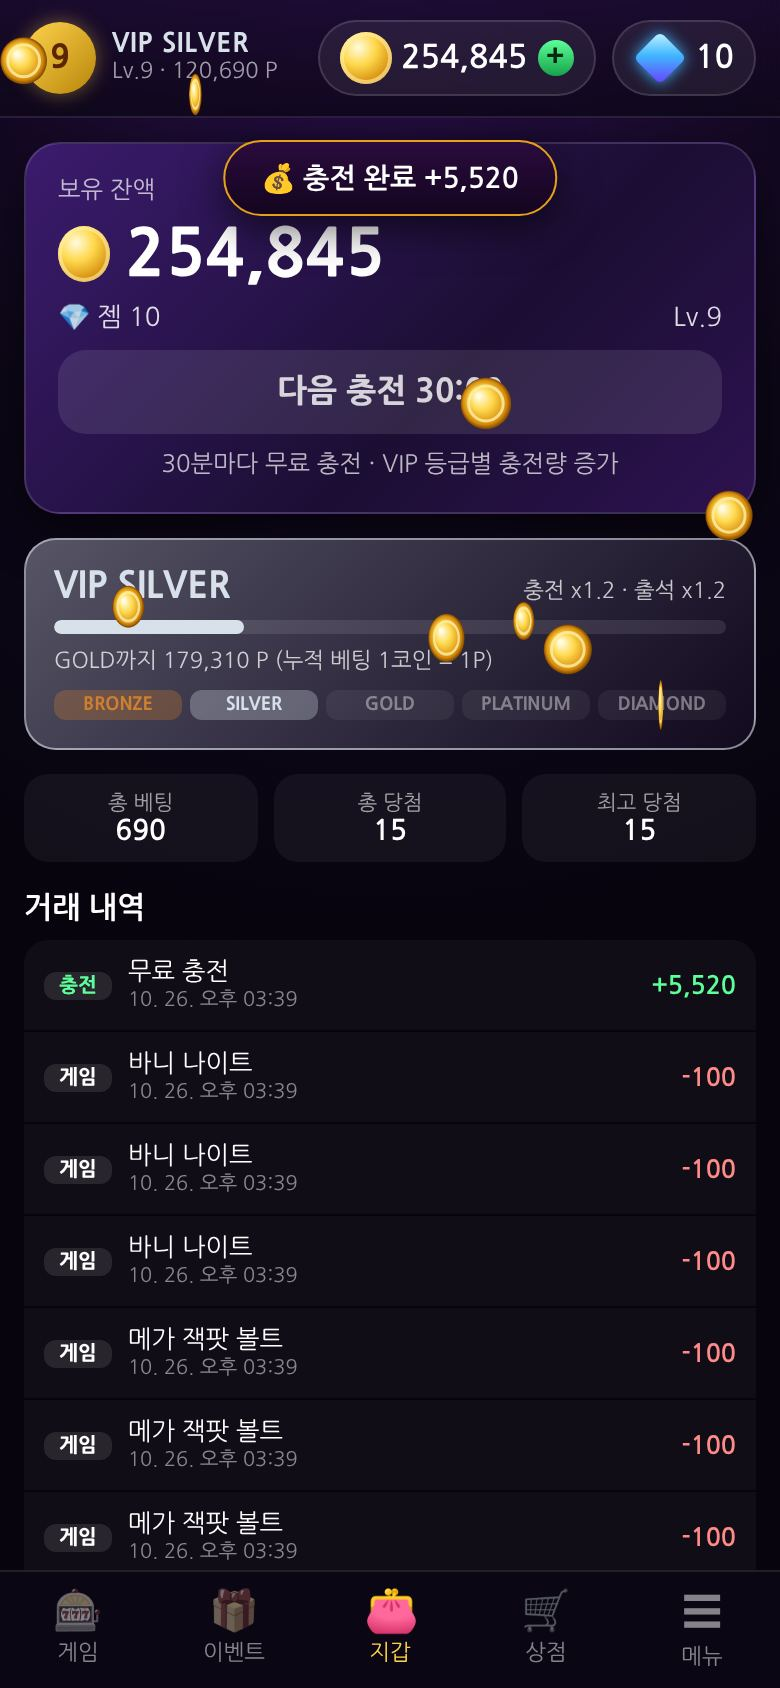
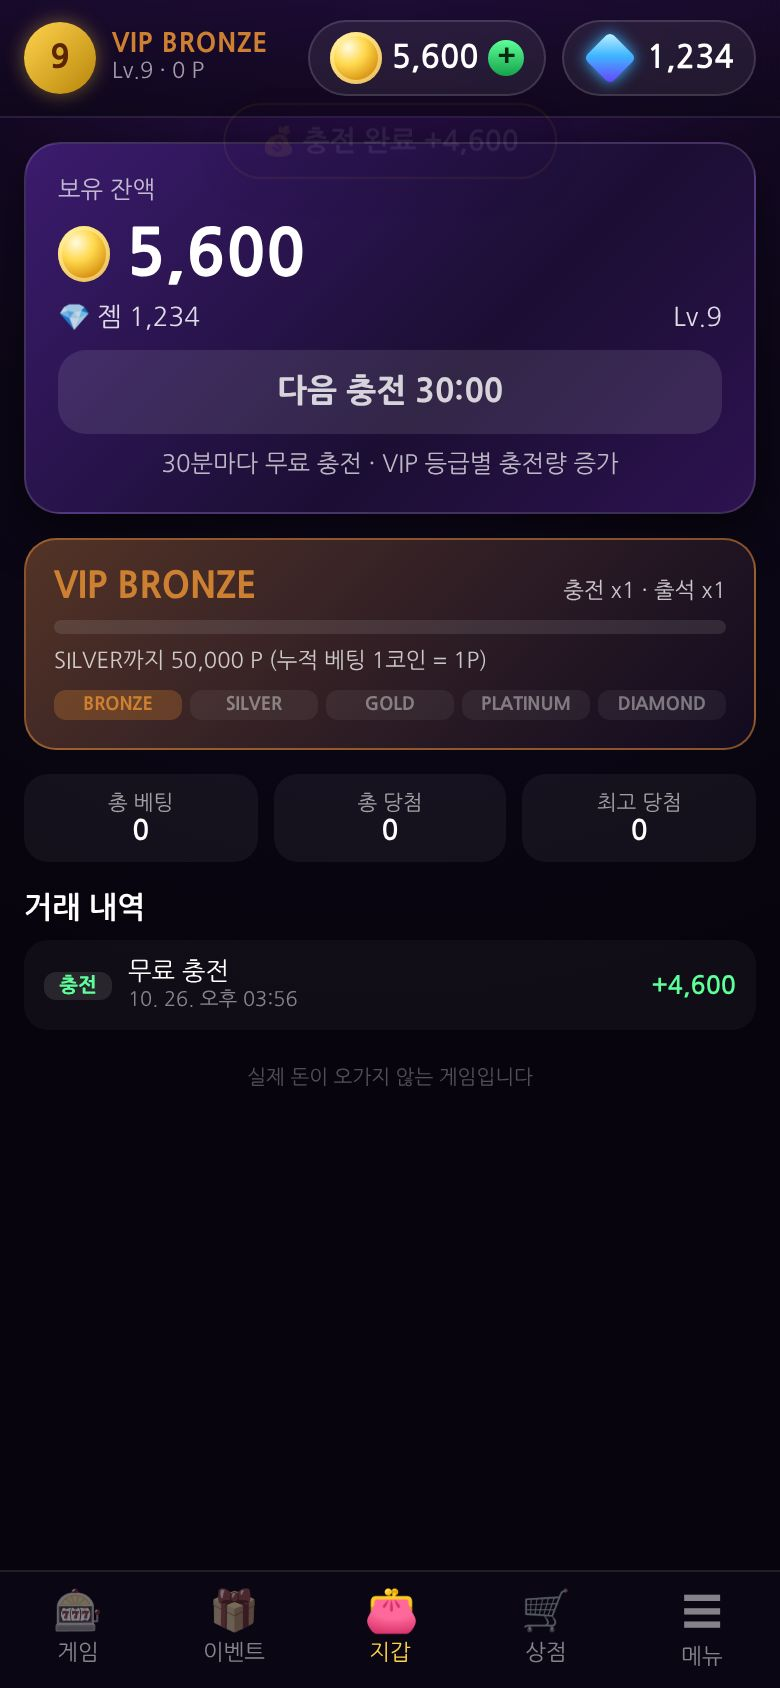
HUD: compact balance (K/M/B) + tap for full value, fits 375/390px; charge click test

diff --git a/scripts/hud_charge_test.js b/scripts/hud_charge_test.js
@@ -1,0 +1,40 @@
+// HUD 잔액 표시(375/390px) + 지갑 무료 충전 실제 클릭 테스트 (node scripts/hud_charge_test.js)
+const { chromium } = require(process.env.PW || 'playwright');
+const URL = process.env.URL || 'http://127.0.0.1:18006/', OUT = __dirname + '/../docs-screens/';
+let fail = 0; const ok = (c, m) => { console.log((c ? 'PASS ' : 'FAIL ') + m); if (!c) fail++; };
+(async () => {
+  const b = await chromium.launch(); const errs = [];
+  for (const w of [390, 375]) {
+    const p = await b.newPage({ viewport: { width: w, height: 844 }, deviceScaleFactor: 2, hasTouch: true, isMobile: true });
+    p.on('pageerror', (e) => errs.push(String(e))); p.on('console', (m) => m.type() === 'error' && errs.push(m.text()));
+    await p.goto(URL); await p.evaluate(() => localStorage.clear()); await p.reload(); await p.waitForTimeout(600);
+    await p.tap('#btnStart', { force: true }); await p.waitForTimeout(1500); await p.evaluate(() => Game.closeModal());
+    for (const coins of [24567, 245678, 1234567, 24567890, 987654321]) for (const id of ['classic', 'fruit', 'dragon', 'mega', 'bunny']) {
+      const r = await p.evaluate(([c, id]) => { const s = __slot.E.s; s.level = 9; s.coins = c; s.gems = 1234; Lobby.hide(); Game.enterSlot(id); Game.hud();
+        const t = document.getElementById('coinText'), pill = t.parentElement.getBoundingClientRect(), tb = t.getBoundingClientRect(), nx = document.getElementById('btnShop').getBoundingClientRect(), mb = document.getElementById('btnMenu').getBoundingClientRect();
+        return { txt: t.textContent, fits: t.scrollWidth <= t.clientWidth + 1 && tb.right <= pill.right + 1 && pill.right <= nx.left && mb.right <= innerWidth }; }, [coins, id]);
+      if (!r.fits || id === 'classic') ok(r.fits && !r.txt.includes('…'), `${w}px ${id} ${coins} -> "${r.txt}"`);
+      if (coins === 24567890) await p.screenshot({ path: OUT + `hud_${w}_${id}.png`, clip: { x: 0, y: 0, width: w, height: 120 } });
+    }
+    await p.evaluate(() => { __slot.E.s.coins = 24567890; Game.hud(); }); await p.tap('#coinPill', { force: true }); await p.waitForTimeout(300);
+    ok((await p.textContent('#toast')).includes('24,567,890'), `${w}px tap pill shows full value`);
+    await p.evaluate(() => Lobby.show()); await p.waitForTimeout(400); await p.screenshot({ path: OUT + `lobby_top_${w}.png`, clip: { x: 0, y: 0, width: w, height: 120 } });
+    if (w === 390) { // ---- 충전 실제 탭 ----
+      await p.evaluate(() => { const s = __slot.E.s; s.coins = 1000; s.lastCharge = 0; s.tx = []; __slot.E.save(); Lobby.go('wallet'); });
+      await p.waitForTimeout(400); const before = await p.evaluate(() => __slot.E.s.coins);
+      const top = await p.evaluate(() => { const r = document.getElementById('wCharge').getBoundingClientRect(); const e = document.elementFromPoint(r.x + r.width / 2, r.y + r.height / 2); return e && (e.id || e.className); });
+      ok(top === 'wCharge' || String(top).includes('charge'), 'charge button is top element: ' + top);
+      await p.tap('#wCharge', { force: true }); await p.waitForTimeout(800);
+      const st = await p.evaluate(() => ({ c: __slot.E.s.coins, left: __slot.E.chargeLeft(), tx: __slot.E.s.tx[0], btn: document.getElementById('wCharge').textContent }));
+      ok(st.c > before, `balance ${before} -> ${st.c}`); ok(st.left > 29 * 60000, 'cooldown started ' + Math.round(st.left / 1000) + 's');
+      ok(st.tx && st.tx.type === 'charge' && st.tx.amount === st.c - before, 'tx logged ' + JSON.stringify(st.tx)); ok(/다음 충전/.test(st.btn), 'button shows: ' + st.btn);
+      await p.waitForTimeout(1500); await p.screenshot({ path: OUT + 'wallet_charged.png' });
+      await p.tap('#wCharge', { force: true }); await p.waitForTimeout(300); ok((await p.evaluate(() => __slot.E.s.coins)) === st.c, 'second tap during cooldown grants nothing');
+      await p.reload(); await p.waitForTimeout(800);
+      const after = await p.evaluate(() => ({ c: __slot.E.s.coins, left: __slot.E.chargeLeft(), t: __slot.E.s.tx[0] && __slot.E.s.tx[0].type }));
+      ok(after.c === st.c && after.left > 0 && after.t === 'charge', 'persists after reload ' + JSON.stringify(after));
+    }
+    await p.close();
+  }
+  ok(errs.length === 0, 'console errors: ' + JSON.stringify(errs)); await b.close(); process.exit(fail ? 1 : 0);
+})();

diff --git a/js/ui.js b/js/ui.js
@@ -15,10 +15,11 @@
 
   // ----- HUD -----
   let shownCoins = E.s.coins;
+  $('coinText')._fmt = fmtCompact;
   function hud(animate) {
     const s = E.s; $('gemText').textContent = fmt(s.gems); $('lvlNum').textContent = s.level;
     $('xpBar').style.width = Math.min(100, (100 * s.xp) / C.level.xpNeeded(s.level)) + '%';
-    if (animate && s.coins > shownCoins) FX.countUp($('coinText'), shownCoins, s.coins, 900); else $('coinText').textContent = fmt(s.coins);
+    if (animate && s.coins > shownCoins) FX.countUp($('coinText'), shownCoins, s.coins, 900); else $('coinText').textContent = fmtCompact(s.coins); $('coinText').title = fmt(s.coins);
     shownCoins = s.coins; $('betText').textContent = fmt(E.bet());
     $('betDown').disabled = s.betIdx <= 0; $('betUp').disabled = s.betIdx >= E.maxBetIdx();
     const fs = s.freeSpins > 0; document.body.classList.toggle('freespin', fs); $('btnSpin').classList.toggle('free', fs);
@@ -206,7 +207,7 @@
   tap('btnAuto', () => { auto = !auto; autoCount = 0; $('btnAuto').classList.toggle('on', auto); Audio2.play('click'); hud(); if (auto) spin(); });
   tap('btnTurbo', () => { E.s.settings.turbo = !E.s.settings.turbo; $('btnTurbo').classList.toggle('on', E.s.settings.turbo); E.save(); Audio2.play('click'); });
   tap('btnHourly', () => charge($('btnHourly')));
-  tap('btnDaily', daily); tap('btnHome', () => { if (spinning || E.s.freeSpins > 0) return toast('스핀이 끝난 뒤 로비로 갈 수 있어요'); auto = false; $('btnAuto').classList.remove('on'); Lobby.show(); }); tap('btnInfo', paytable); tap('btnShop', () => Shop.open('ex')); tap('btnStore', () => Shop.open()); tap('btnMenu', menu); tap('btnLevel', levelInfo);
+  tap('btnDaily', daily); tap('coinPill', () => toast(`🪙 보유 잔액 ${fmt(E.s.coins)}`)); tap('btnHome', () => { if (spinning || E.s.freeSpins > 0) return toast('스핀이 끝난 뒤 로비로 갈 수 있어요'); auto = false; $('btnAuto').classList.remove('on'); Lobby.show(); }); tap('btnInfo', paytable); tap('btnShop', () => Shop.open('ex')); tap('btnStore', () => Shop.open()); tap('btnMenu', menu); tap('btnLevel', levelInfo);
   addEventListener('keydown', (e) => { if (e.code === 'Space') { e.preventDefault(); $('btnSpin').click(); } });
   $('btnTurbo').classList.toggle('on', E.s.settings.turbo);
 

diff --git a/js/effects.js b/js/effects.js
@@ -41,7 +41,7 @@ const FX = (() => {
   function countUp(el, from, to, ms, onTick) {
     return new Promise((res) => { const t0 = performance.now(); let last = -1;
       (function step(t) { const k = Math.min(1, (t - t0) / ms), e = 1 - Math.pow(1 - k, 3), v = Math.round(from + (to - from) * e);
-        el.textContent = v.toLocaleString(); if (onTick && v !== last) onTick(v); last = v; if (k < 1 && !el._skip) requestAnimationFrame(step); else { el.textContent = to.toLocaleString(); el._skip = false; res(); } })(t0); });
+        el.textContent = (el._fmt || ((x) => x.toLocaleString()))(v); if (onTick && v !== last) onTick(v); last = v; if (k < 1 && !el._skip) requestAnimationFrame(step); else { el.textContent = (el._fmt || ((x) => x.toLocaleString()))(to); el._skip = false; res(); } })(t0); });
   }
   return { setStyle, coinRain, coinBurst, confetti, sparkle, fireworks, shake, countUp };
 })();

diff --git a/js/lobby.js b/js/lobby.js
@@ -74,7 +74,7 @@ const Lobby = (() => {
     const s = E_().s, v = E_().vip();
     $('lbLvl').textContent = s.level; $('lbVip').textContent = 'VIP ' + v.tier.name; $('lbVip').style.color = v.tier.color;
     $('lbTitle').textContent = document.querySelector('.logo-sub') ? `Lv.${s.level} · ${fmt(s.vipPts)} P` : '';
-    $('lbCoins').textContent = fmt(s.coins); $('lbGems').textContent = fmt(s.gems);
+    $('lbCoins').textContent = s.coins >= 1e7 ? fmtCompact(s.coins) : fmt(s.coins); $('lbGems').textContent = fmt(s.gems);
     const el = $({ home: 'pgHome', promo: 'pgPromo', wallet: 'pgWallet' }[page]); const sc = el.scrollTop;
     el.innerHTML = { home, promo, wallet }[page](); el.scrollTop = sc;
     document.querySelectorAll('.lb-page').forEach((p) => p.classList.toggle('on', p.dataset.page === page));

diff --git a/js/engine.js b/js/engine.js
@@ -1,3 +1,8 @@
+/* 잔액 축약 표기: 99,999 까지 그대로, 이후 123.4K / 1.23M / 1.2B (전체 값은 탭해서 확인) */
+function fmtCompact(n) { n = Math.floor(n); const a = Math.abs(n);
+  const f = (v, u) => (v >= 100 ? Math.floor(v) : Math.floor(v * 10) / 10).toString().replace(/\.0$/, '') + u;
+  if (a < 100000) return n.toLocaleString('en-US'); if (a < 1e6) return f(n / 1e3, 'K'); if (a < 1e9) return (a < 1e7 ? (Math.floor(n / 1e4) / 100).toString() + 'M' : f(n / 1e6, 'M')); return f(n / 1e9, 'B'); }
+if (typeof window !== 'undefined') window.fmtCompact = fmtCompact;
 /* 순수 게임 로직 (DOM 없음) — 브라우저와 node(simulate.js) 공용 */
 (function (root) {
   function makeRng(seed) { // mulberry32 (시뮬레이션용). 게임은 crypto 사용

diff --git a/css/style.css b/css/style.css
@@ -336,3 +336,8 @@ body.freespin .fs-banner{transform:translateX(-50%) scale(1)}
 .logo-7.long{font-size:28px;letter-spacing:1px}
 .intro-logo span{display:block;font-size:14px;letter-spacing:8px;color:#ffd34d;margin-top:4px}
 .save-row>div{min-width:0}.save-row b{white-space:nowrap}.save-row .cbtn{flex:none;width:auto!important;padding:8px 12px;margin:0}
+
+/* HUD: 375/390px에서도 잔액이 잘리지 않게 */
+.hud{gap:6px}.xp{width:40px}.pill{padding:0 8px 0 3px;gap:4px;color:inherit;font:inherit}.pill b{overflow:visible;text-overflow:clip;font-size:15px}
+.pill.coins{justify-content:flex-start;cursor:pointer}.hud .icon-btn{flex:0 0 auto;width:36px}
+@media (max-width:380px){.xp{width:30px}.pill b{font-size:14px}.hud{gap:5px}.hud .icon-btn{width:34px}}

diff --git a/index.html b/index.html
@@ -24,7 +24,7 @@
       <span class="lvl-badge"><b id="lvlNum">1</b></span>
       <span class="xp"><i id="xpBar"></i></span>
     </button>
-    <div class="pill coins"><span class="ico coin-ico"></span><b id="coinText">0</b></div>
+    <button class="pill coins" id="coinPill"><span class="ico coin-ico"></span><b id="coinText">0</b></button>
     <button class="pill gems" id="btnShop"><span class="ico gem-ico"></span><b id="gemText">0</b><span class="plus">+</span></button>
     <button class="icon-btn" id="btnHome" aria-label="로비">⌂</button>
     <button class="icon-btn" id="btnMenu" aria-label="메뉴">☰</button>

diff --git a/sw.js b/sw.js
@@ -1,5 +1,5 @@
 // 오프라인 지원용 서비스워커 (네트워크 우선 → 실패 시 캐시). 파일 수정 시 즉시 반영됩니다.
-const CACHE = 'luckyslot-v3';
+const CACHE = 'luckyslot-v4';
 self.addEventListener('install', (e) => self.skipWaiting());
 self.addEventListener('activate', (e) => e.waitUntil(self.clients.claim()));
 self.addEventListener('fetch', (e) => {
